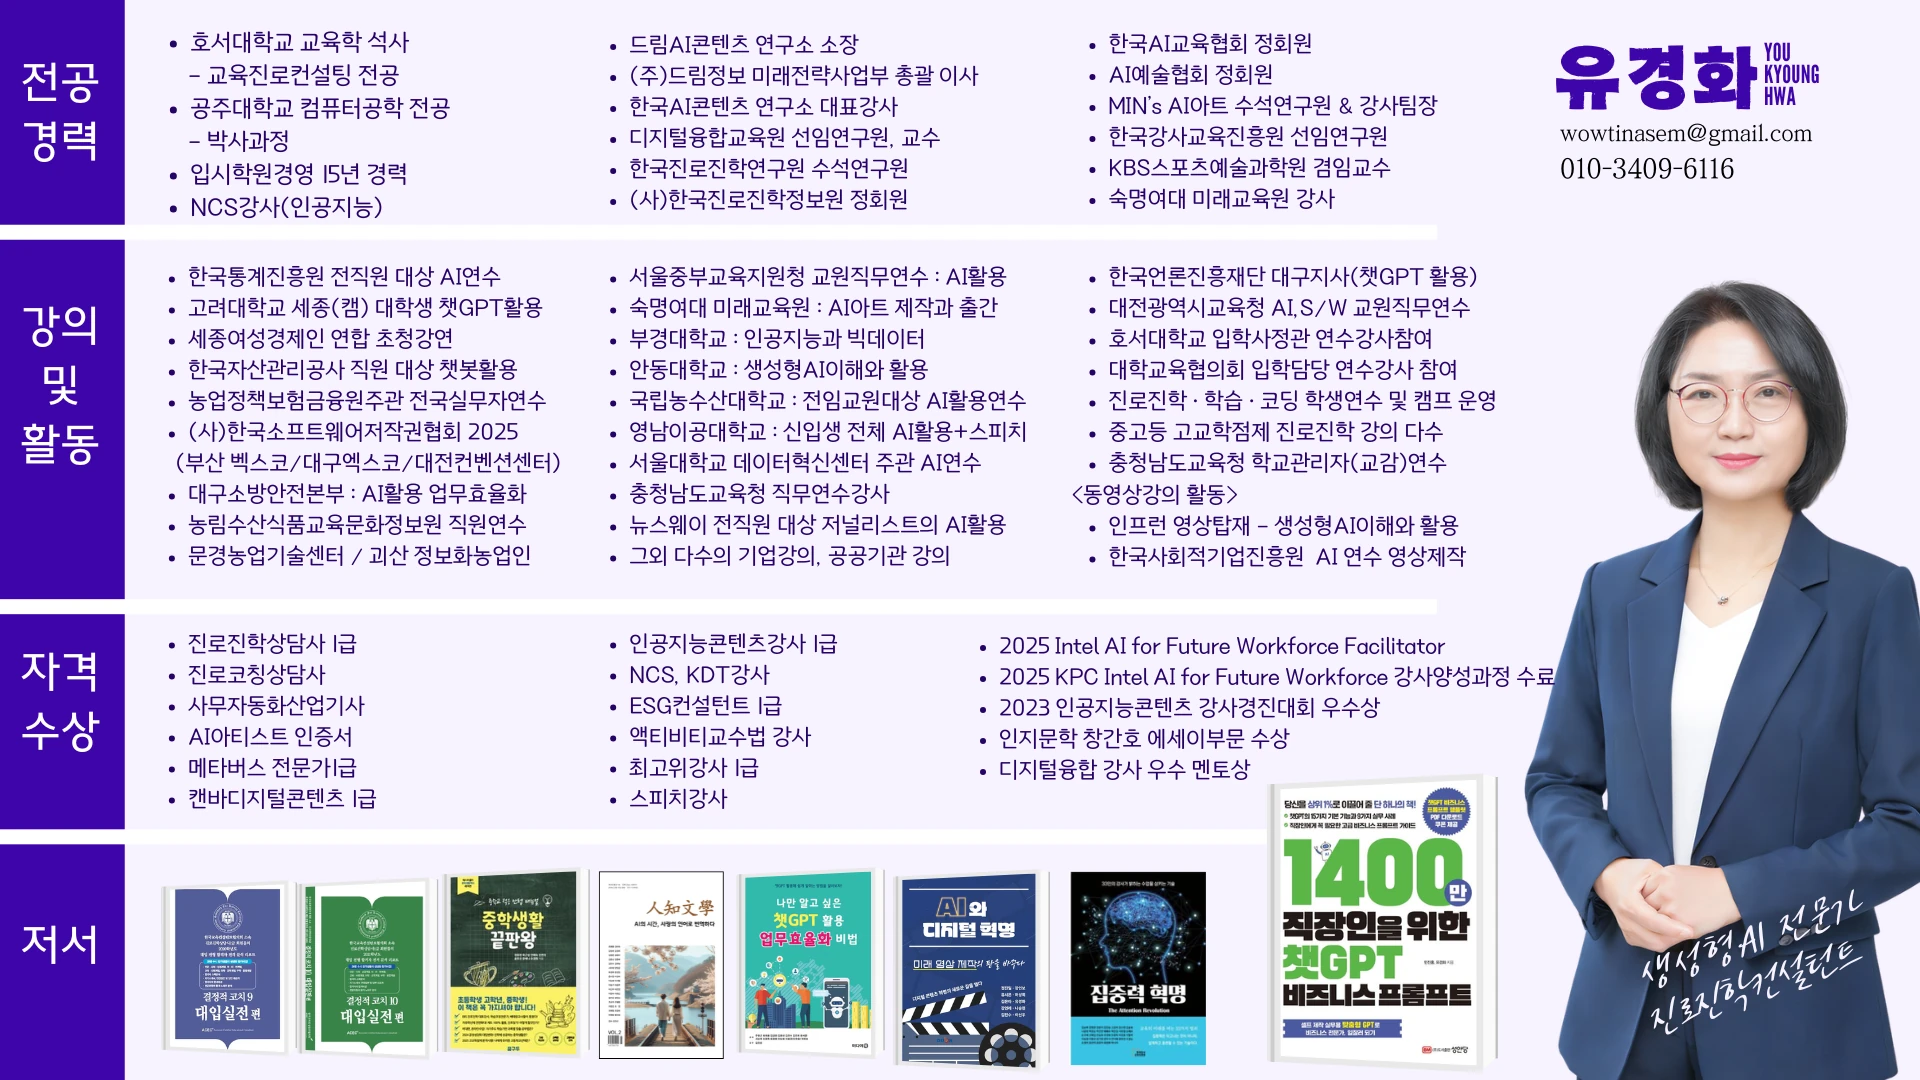
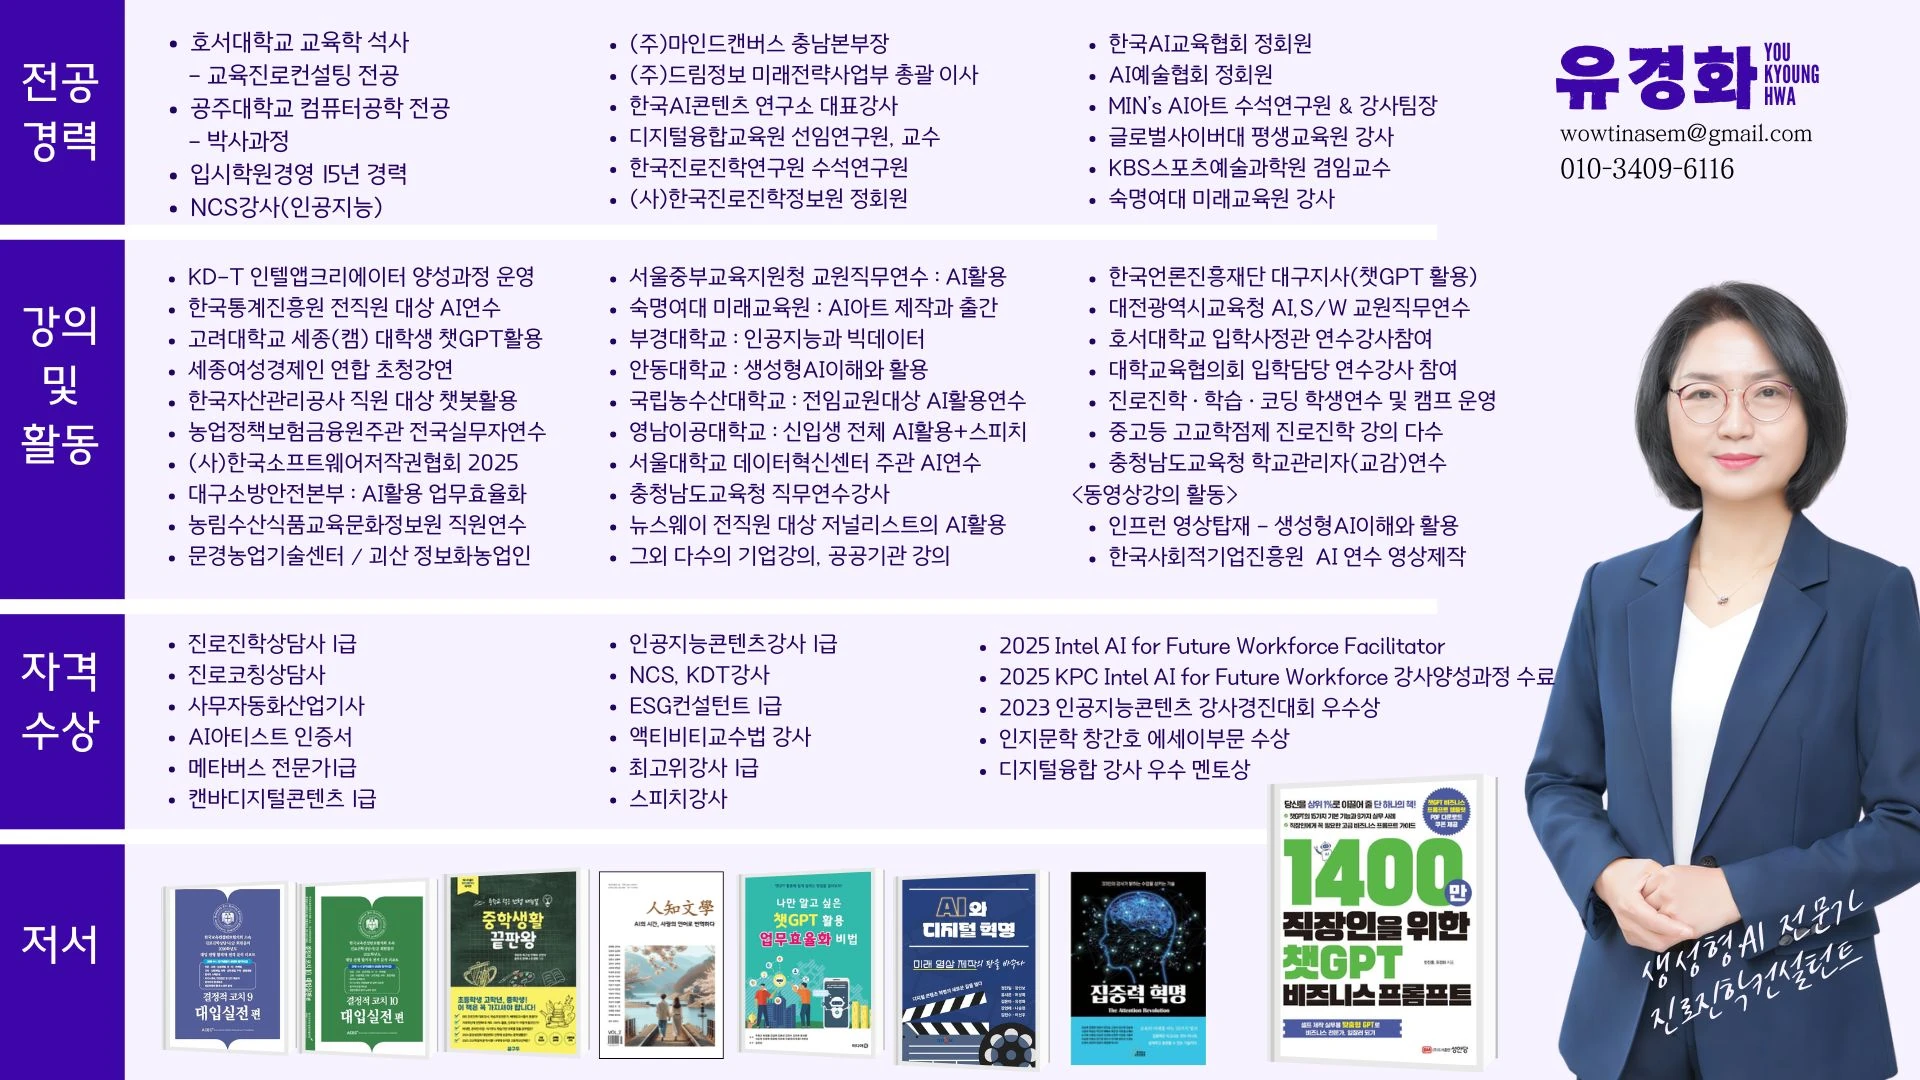
Replace instructor CV viewer image with updated version
Swap the full-screen CV infographic to aaa.jpg (1920x1080); regenerate aaa-web.webp (365KB) from it and point the <picture> fallback at the JPG. Remove the now-unused aaa.png.

Changed region(s): [[0.0938, 0.2444, 0.2812, 0.4583], [0.3125, 0.0306, 0.5, 0.2139], [0.5625, 0.0917, 0.7188, 0.1528]]

diff --git a/index.html b/index.html
@@ -1921,7 +1921,7 @@
         <div class="profile-stage">
             <picture>
                 <source srcset="aaa-web.webp" type="image/webp">
-                <img src="aaa.png" alt="유경화 강사 상세 이력 — 전공경력, 강의·활동, 자격·수상, 저서">
+                <img src="aaa.jpg" alt="유경화 강사 상세 이력 — 전공경력, 강의·활동, 자격·수상, 저서">
             </picture>
         </div>
     </div>
